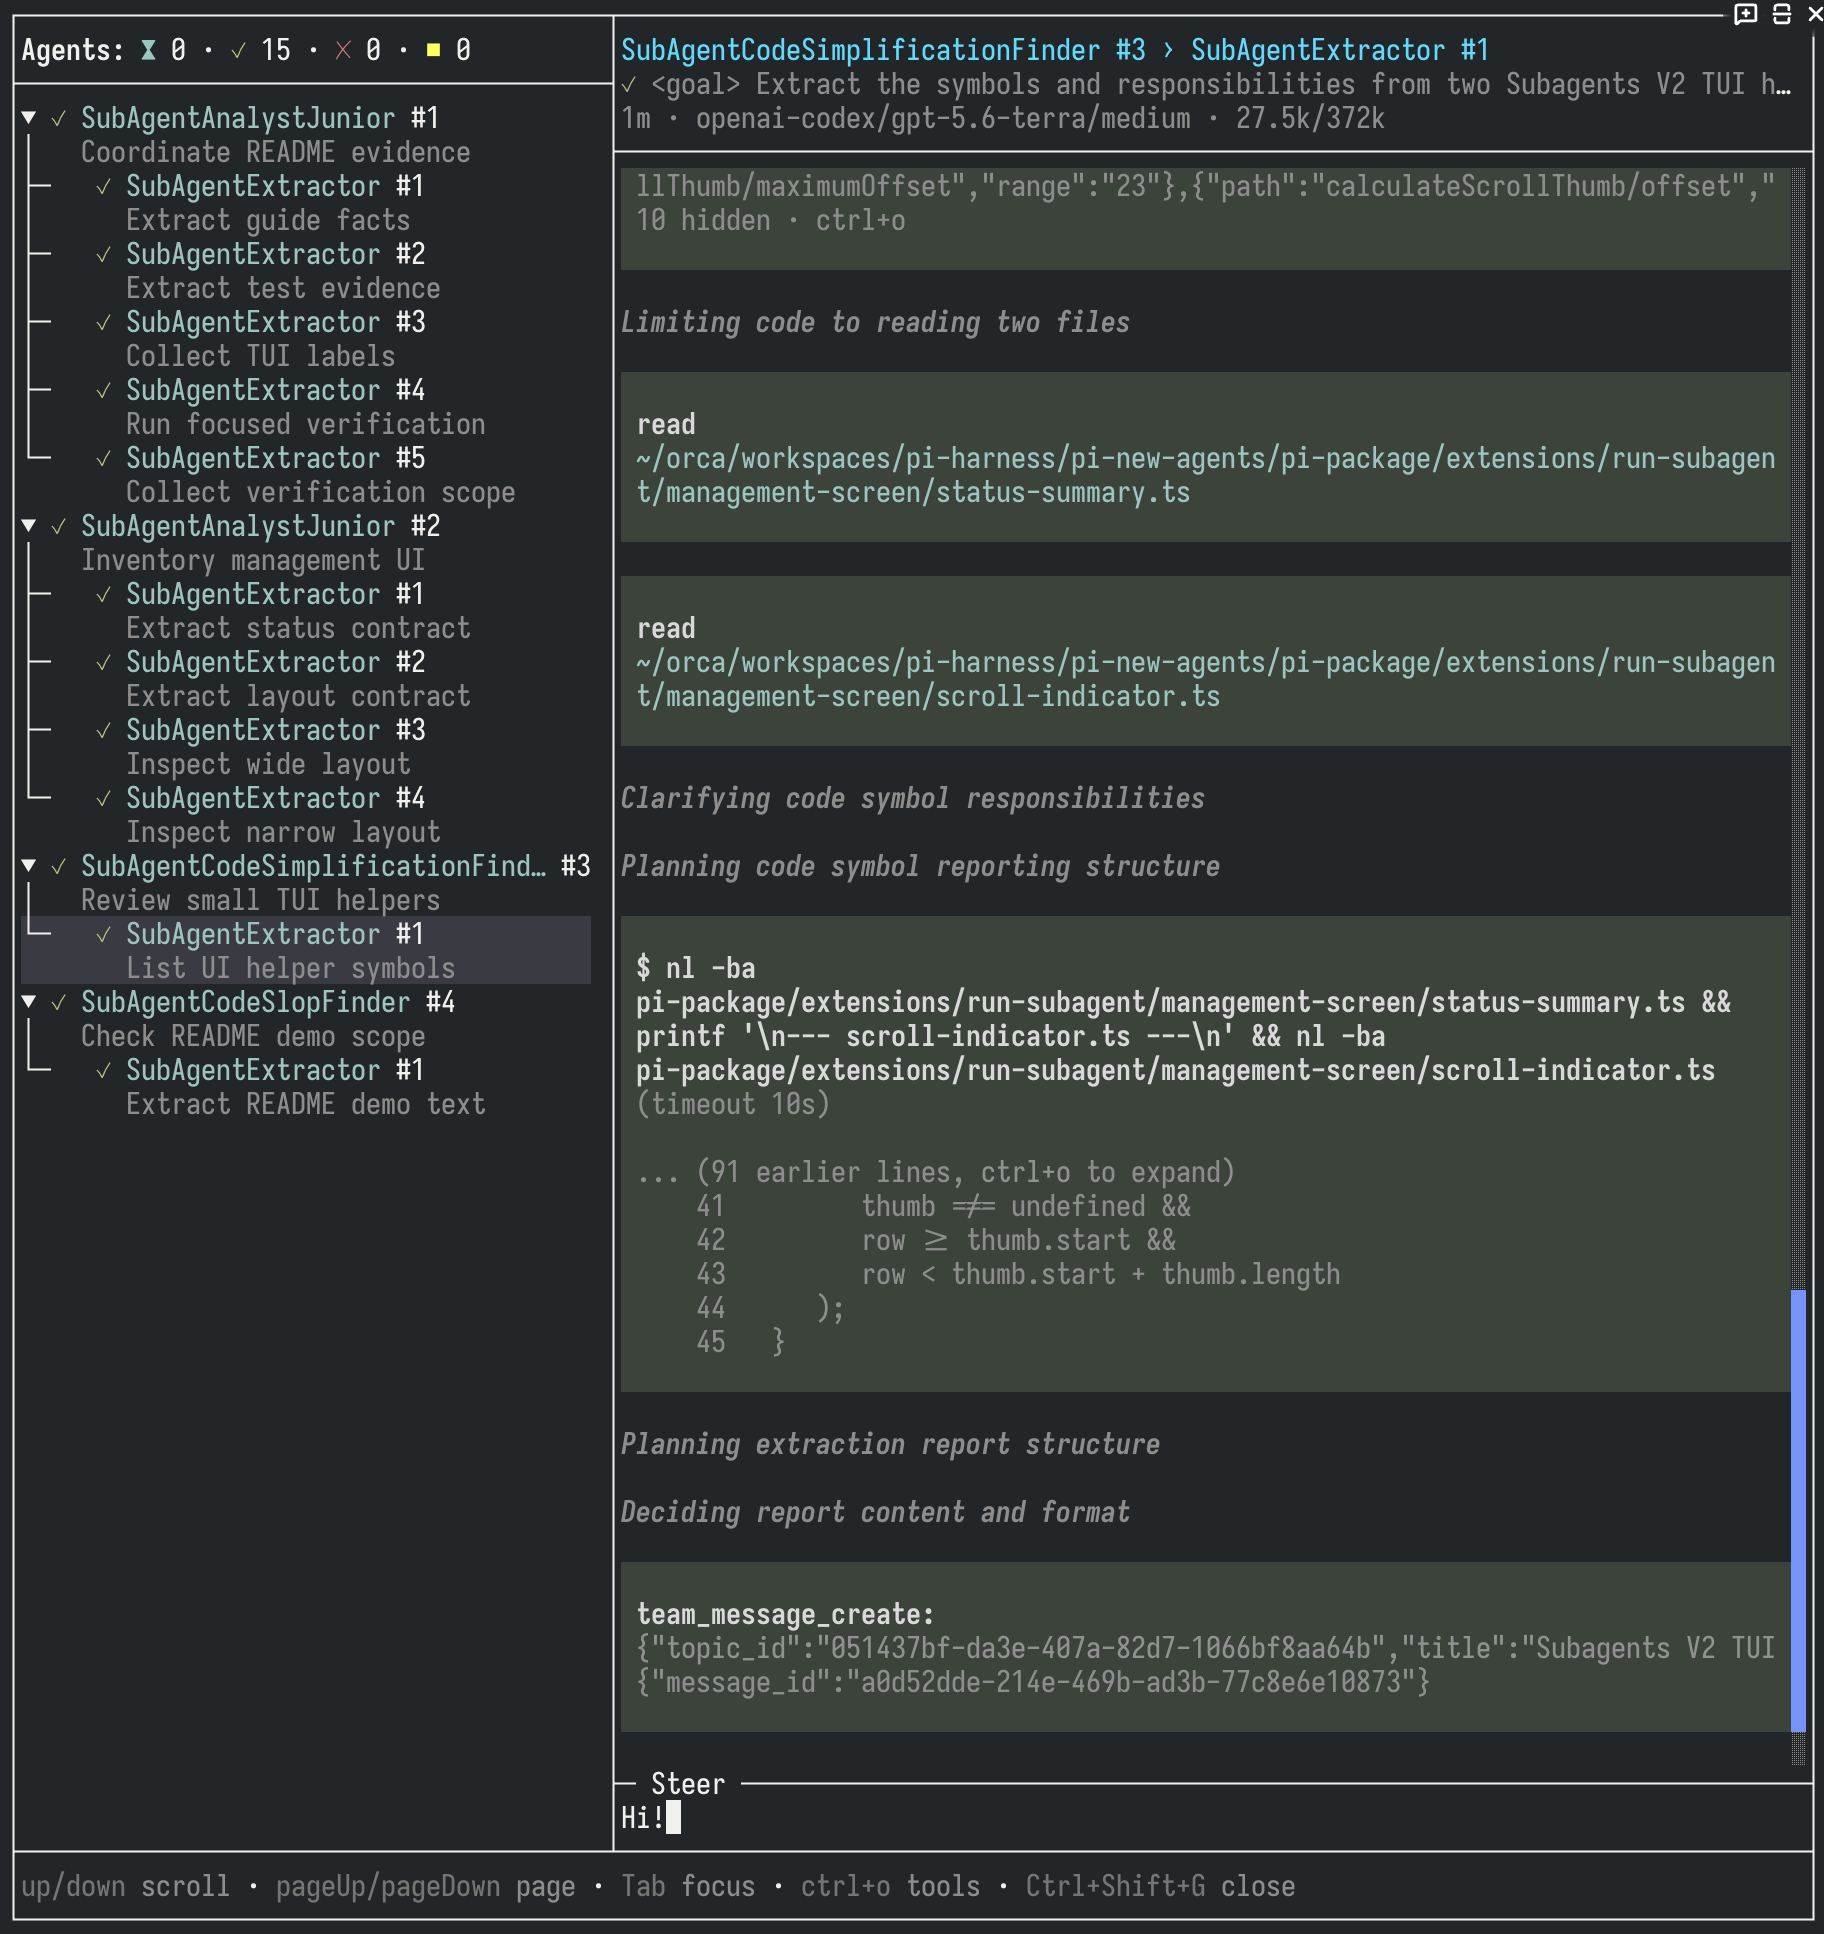
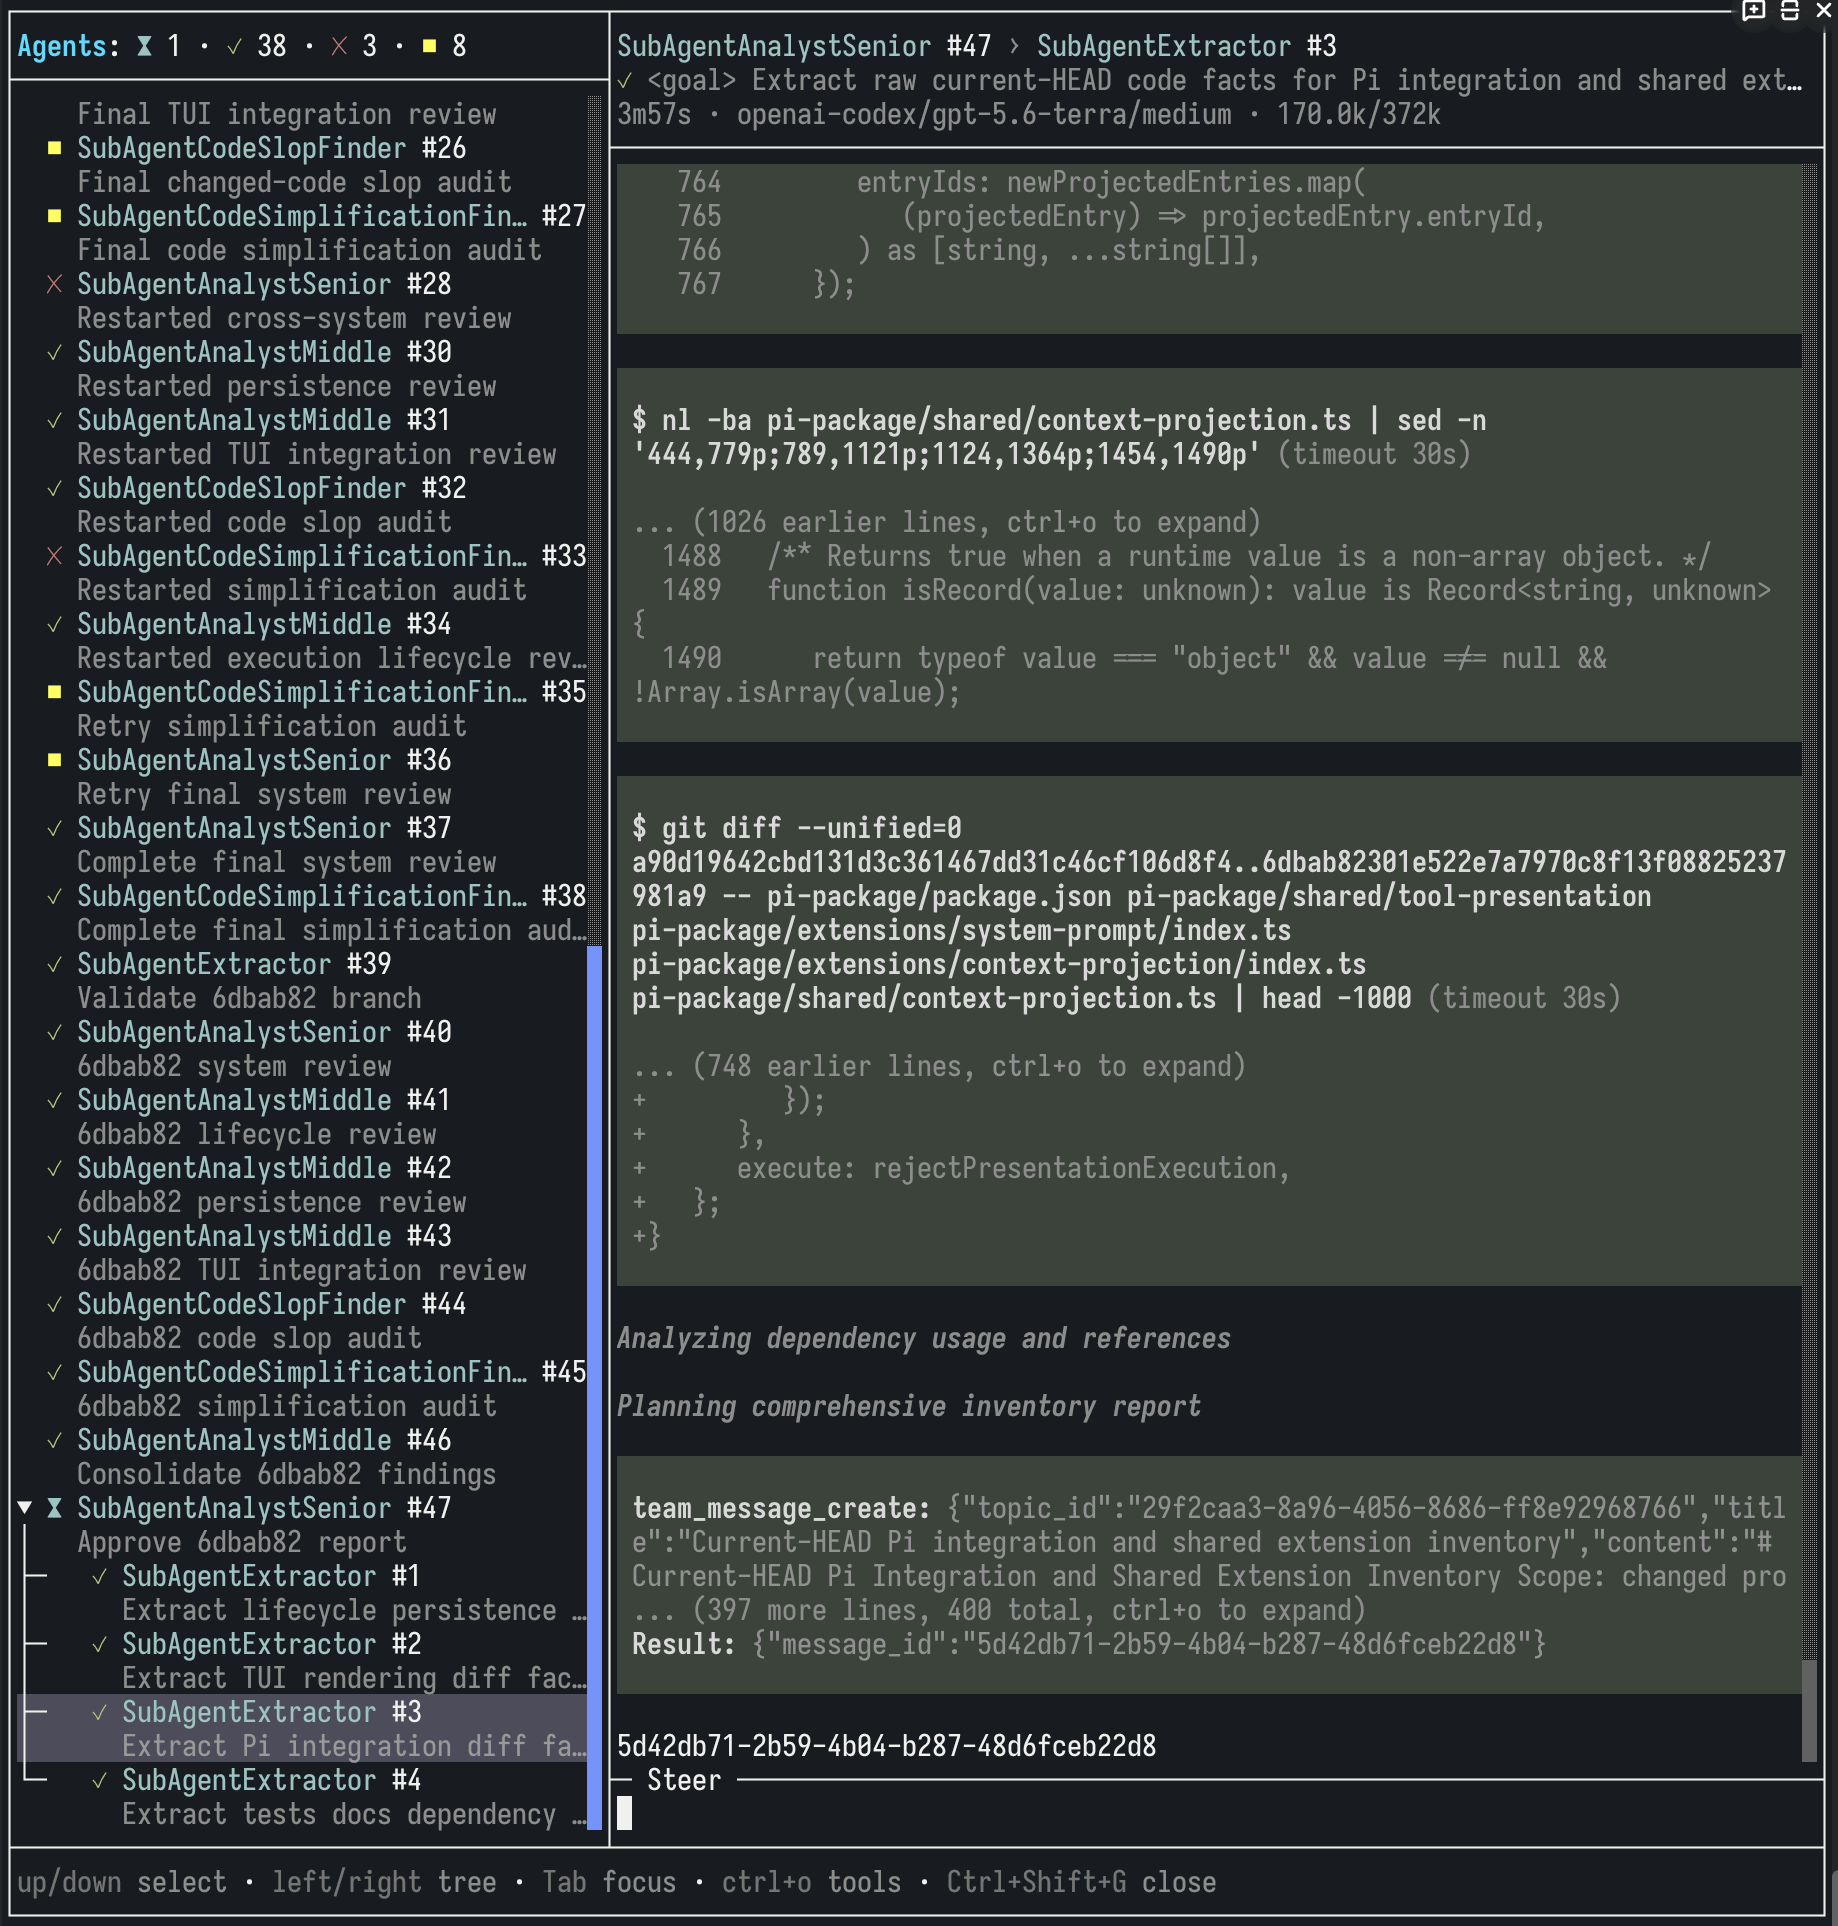
Suppress empty selected-pane divider fragments
- Add coverage for empty hierarchy rendering
- Update the subagents TUI screenshot

diff --git a/pi-package/extensions/run-subagent/management-screen/screen.test.ts b/pi-package/extensions/run-subagent/management-screen/screen.test.ts
@@ -201,17 +201,18 @@ class ViewSourceFake implements ManagementViewSource {
 	>();
 	private view: ManagementProjectionView;
 
-	/** Seeds one immutable selected-node revision for the screen under test. */
-	public constructor(node: ProjectionNode = selectedNode()) {
-		this.selected = node.stableKey;
+	/** Seeds one immutable selected-node or empty revision for the screen under test. */
+	public constructor(node: ProjectionNode | null = selectedNode()) {
+		this.selected = node?.stableKey ?? null;
 		this.view = {
 			revision: 1,
-			nodes: [node],
-			selectedStableKey: node.stableKey,
-			selectedConversation: [conversationEntry("initial conversation")],
+			nodes: node === null ? [] : [node],
+			selectedStableKey: node?.stableKey ?? null,
+			selectedConversation:
+				node === null ? [] : [conversationEntry("initial conversation")],
 			selectedConversationComplete: true,
 			selectedLiveStatus: undefined,
-			affectedStableKeys: [node.stableKey],
+			affectedStableKeys: node === null ? [] : [node.stableKey],
 		};
 	}
 
@@ -352,7 +353,7 @@ class SubmissionFake implements ManagementMessageSubmission {
 /** Creates a screen whose only mutable dependencies are explicit fakes. */
 function createScreen(
 	options: {
-		readonly node?: ProjectionNode;
+		readonly node?: ProjectionNode | null;
 		readonly retained?: ManagementRetainedState;
 		readonly rows?: number;
 		readonly toolsExpanded?: boolean;
@@ -371,7 +372,7 @@ function createScreen(
 	if (options.retained === undefined) {
 		retained.hierarchy = {
 			expandedStableKeys: [],
-			selectedStableKey: "stable-descendant-key",
+			selectedStableKey: options.node === null ? null : "stable-descendant-key",
 			scrollTop: 0,
 		};
 	}
@@ -421,6 +422,36 @@ async function settleProjection(condition: () => boolean): Promise<void> {
 }
 
 describe("management screen", () => {
+	test("keeps the selected pane empty when no agents exist", () => {
+		// Purpose: an empty hierarchy must not leave selected-header divider fragments in the wide pane.
+		// Inputs and expected output: a wide empty projection shows zero agent counts and ordinary blank pane borders.
+		// Edge case: the fixed selected-header row must not render its divider without selected content.
+		// Dependencies: wide screen composition and the empty projection selection contract.
+		// ARRANGE: create a wide management screen whose projection contains no agents.
+		const fixture = createScreen({ node: null });
+
+		// ACT: render the complete wide layout.
+		const rows = fixture.screen.render(160);
+		const selectedHeaderDividerRow = rows[4] ?? "";
+
+		// ASSERT: the hierarchy title remains visible while the selected-header divider stays absent.
+		expect({
+			rowCount: rows.length,
+			rowsFit: rows.every((line) => visibleWidth(line) <= 160),
+			zeroAgentTitle: rows.some(
+				(line) => line.includes("Agents:") && line.includes("⧗ 0"),
+			),
+			selectedHeaderDividerFragments:
+				selectedHeaderDividerRow.includes("├") ||
+				selectedHeaderDividerRow.includes("─┤"),
+		}).toEqual({
+			rowCount: 18,
+			rowsFit: true,
+			zeroAgentTitle: true,
+			selectedHeaderDividerFragments: false,
+		});
+	});
+
 	test("preserves rejected editor input", async () => {
 		// Purpose: submission must route by complete stable identity and preserve non-empty input when coordination rejects it.
 		// Inputs and expected output: zero characters no-op, rejected text notifies once, and accepted text clears only after acceptance.

diff --git a/pi-package/extensions/run-subagent/management-screen/screen.ts b/pi-package/extensions/run-subagent/management-screen/screen.ts
@@ -733,7 +733,11 @@ export class ManagementScreen implements Component, Focusable {
 		if (index === 1) {
 			return `├${hierarchyLine}${SCREEN_SEGMENT_RESET}─┤${conversationLine}${SCREEN_SEGMENT_RESET}${conversationScroll}│`;
 		}
-		if (index === SELECTED_HEADER_ROWS) {
+		if (
+			index === SELECTED_HEADER_ROWS &&
+			content.conversationLines.length > 0
+		) {
+			// The divider belongs to the selected-session header and must stay absent with no selection.
 			return `│${hierarchyLine}${SCREEN_SEGMENT_RESET}${hierarchyScroll}├${conversationLine}${SCREEN_SEGMENT_RESET}─┤`;
 		}
 		return `│${hierarchyLine}${SCREEN_SEGMENT_RESET}${hierarchyScroll}│${conversationLine}${SCREEN_SEGMENT_RESET}${conversationScroll}│`;
